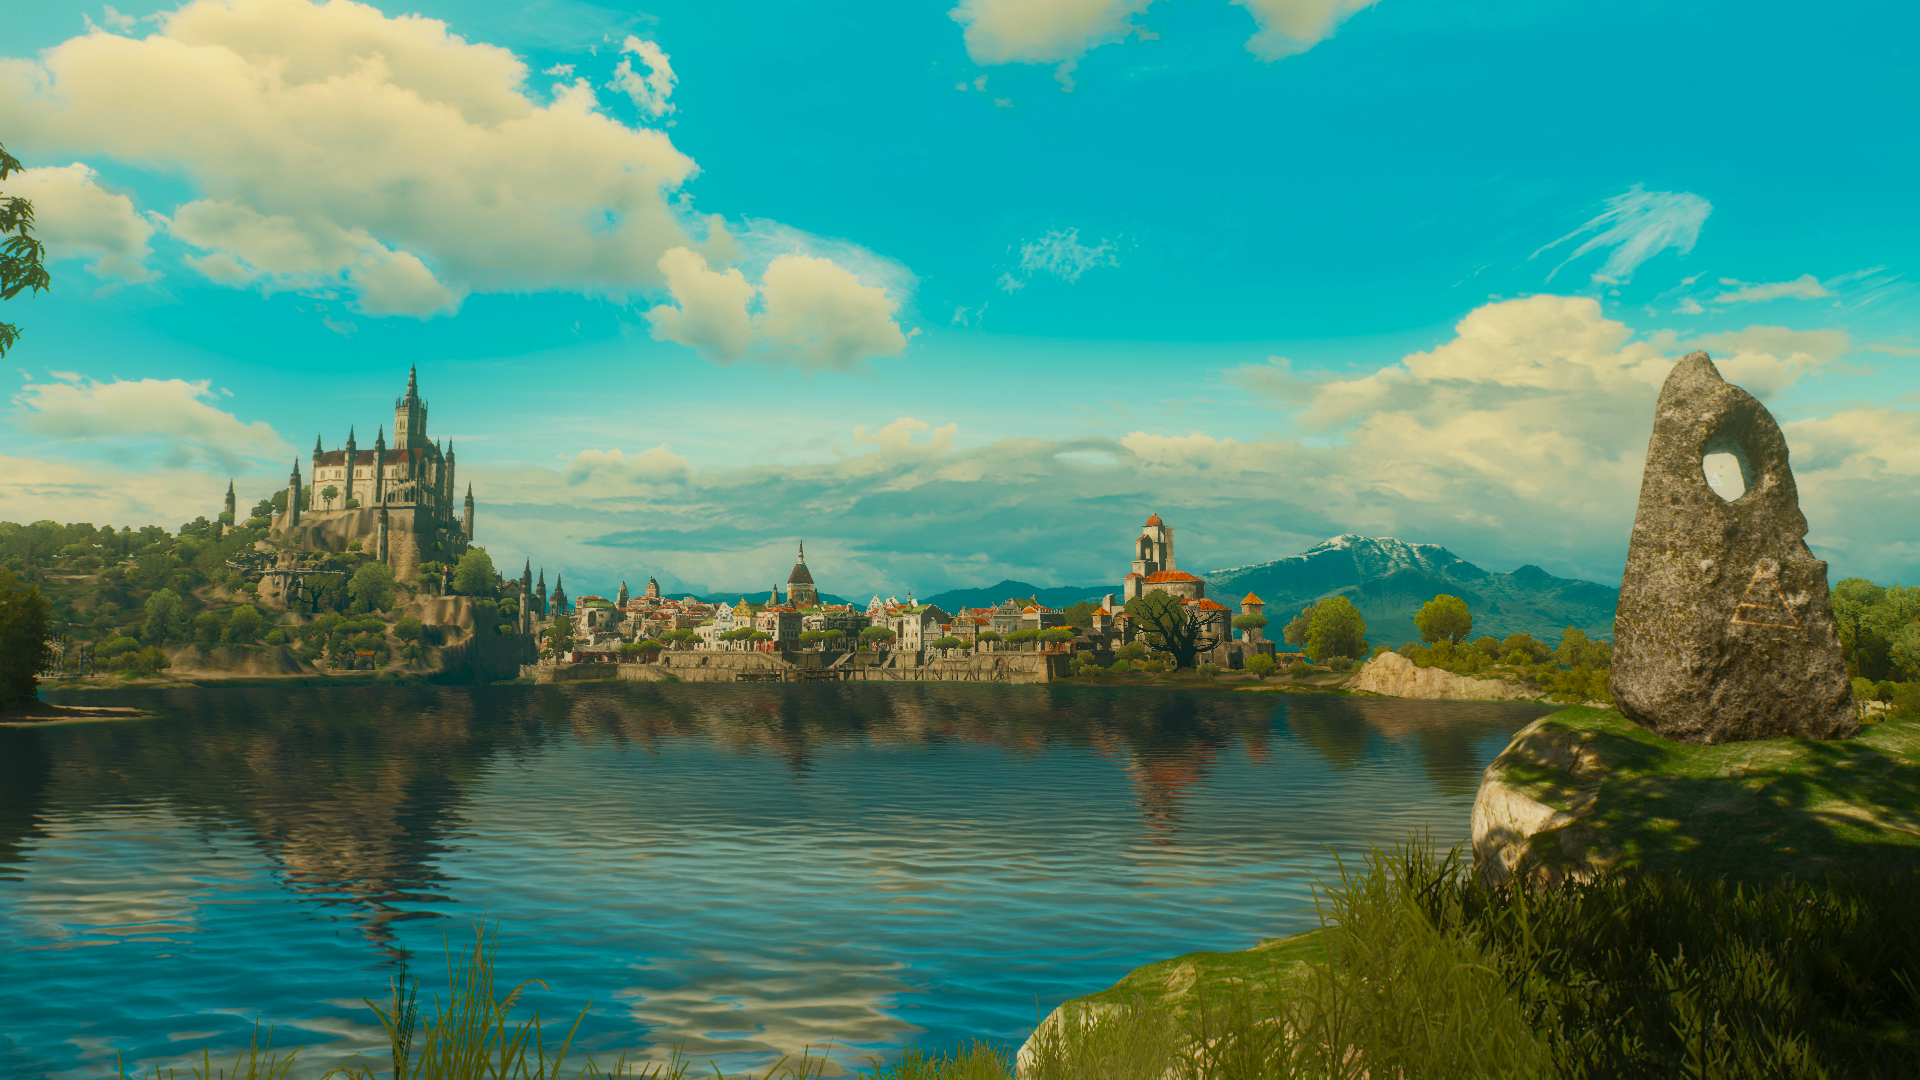
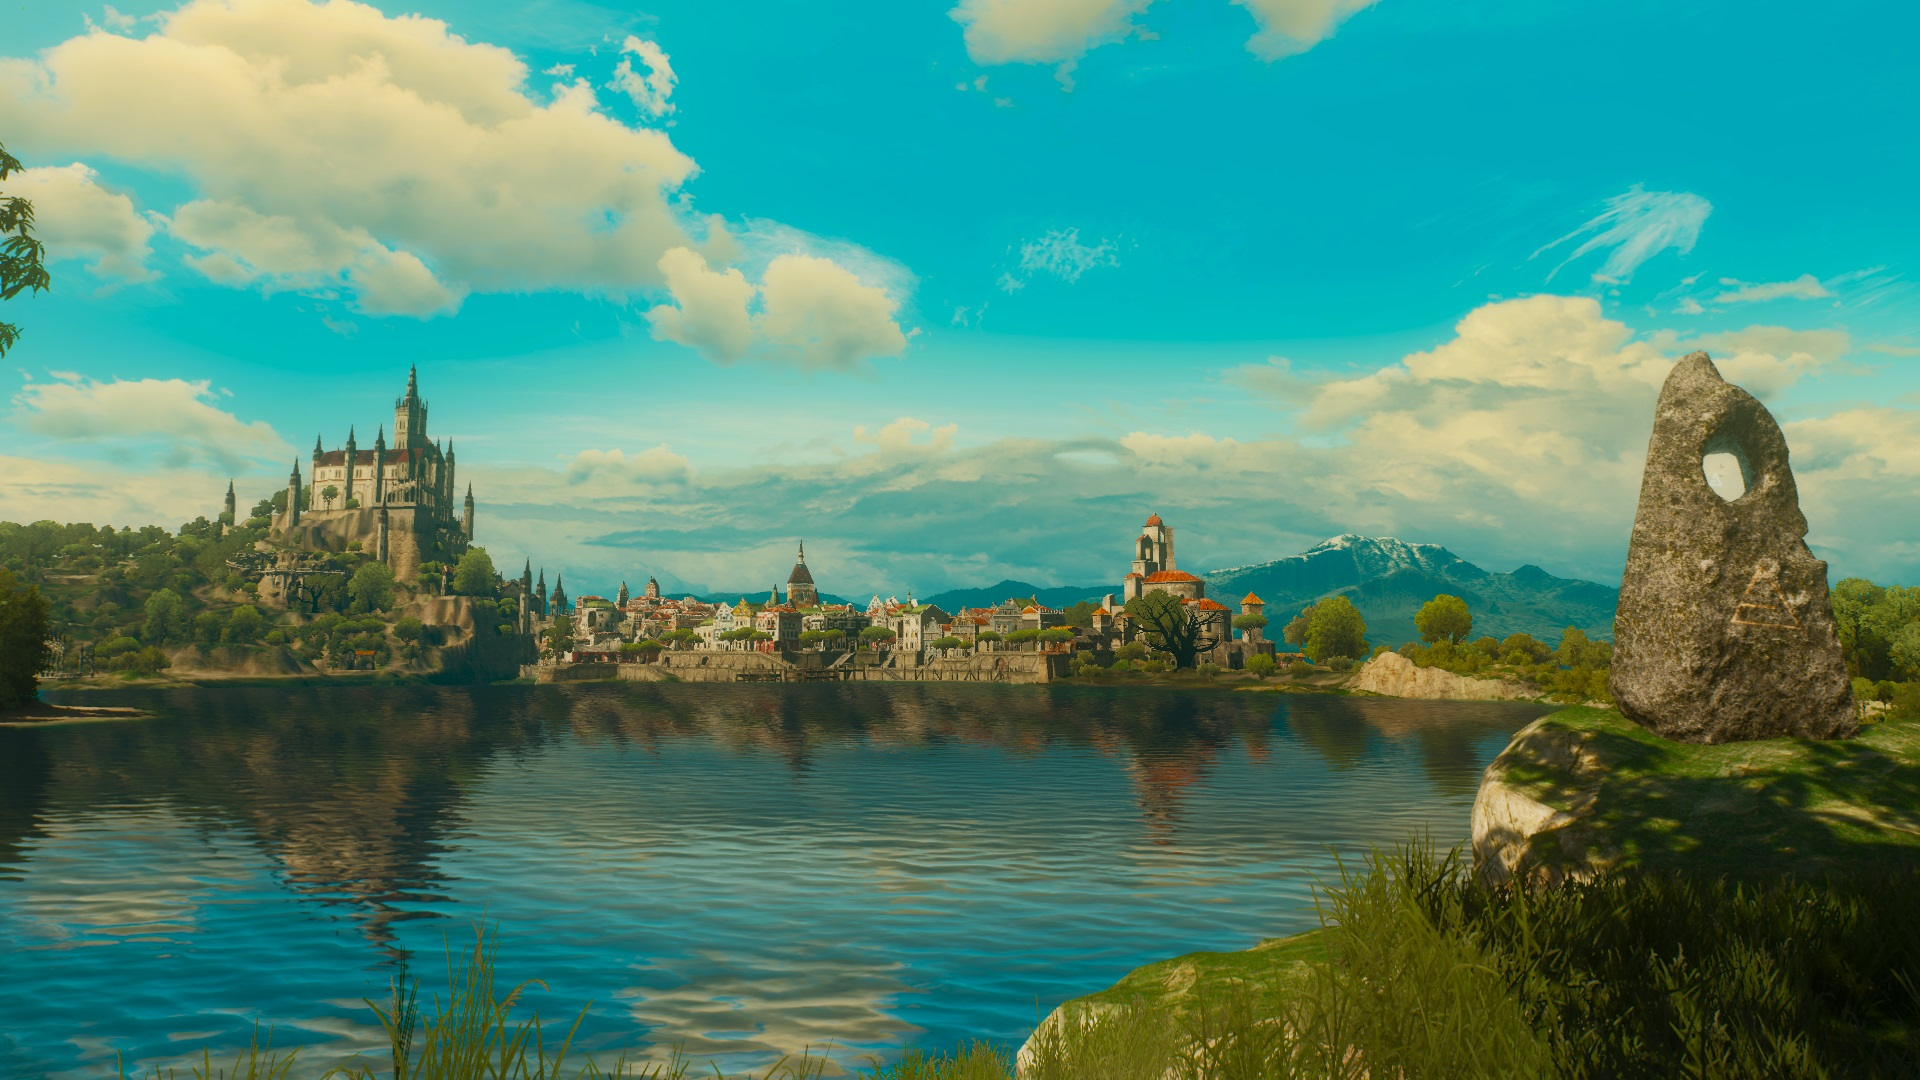
resized the background img

diff --git a/assets/css/style.css b/assets/css/style.css
@@ -111,7 +111,7 @@ main{
 
 #starting-modal{
   background-size: cover;
-  background-image: url("../media/notice-board.png");
+  background-image: url("../media/notice-board.jpg");
   z-index: 10000;
 }
 
@@ -297,7 +297,7 @@ header > p{
   background-image: url("../media/scoiatel-card-back.png");
 }
 .nilfgaard{
-  background-image: url("../media/nilfgard-bg.png");
+  background-image: url("../media/nilfgard-bg.jpg");
 }
 .nilfgaard-back{
   background-image: url("../media/nilfgard-card-back.png");
